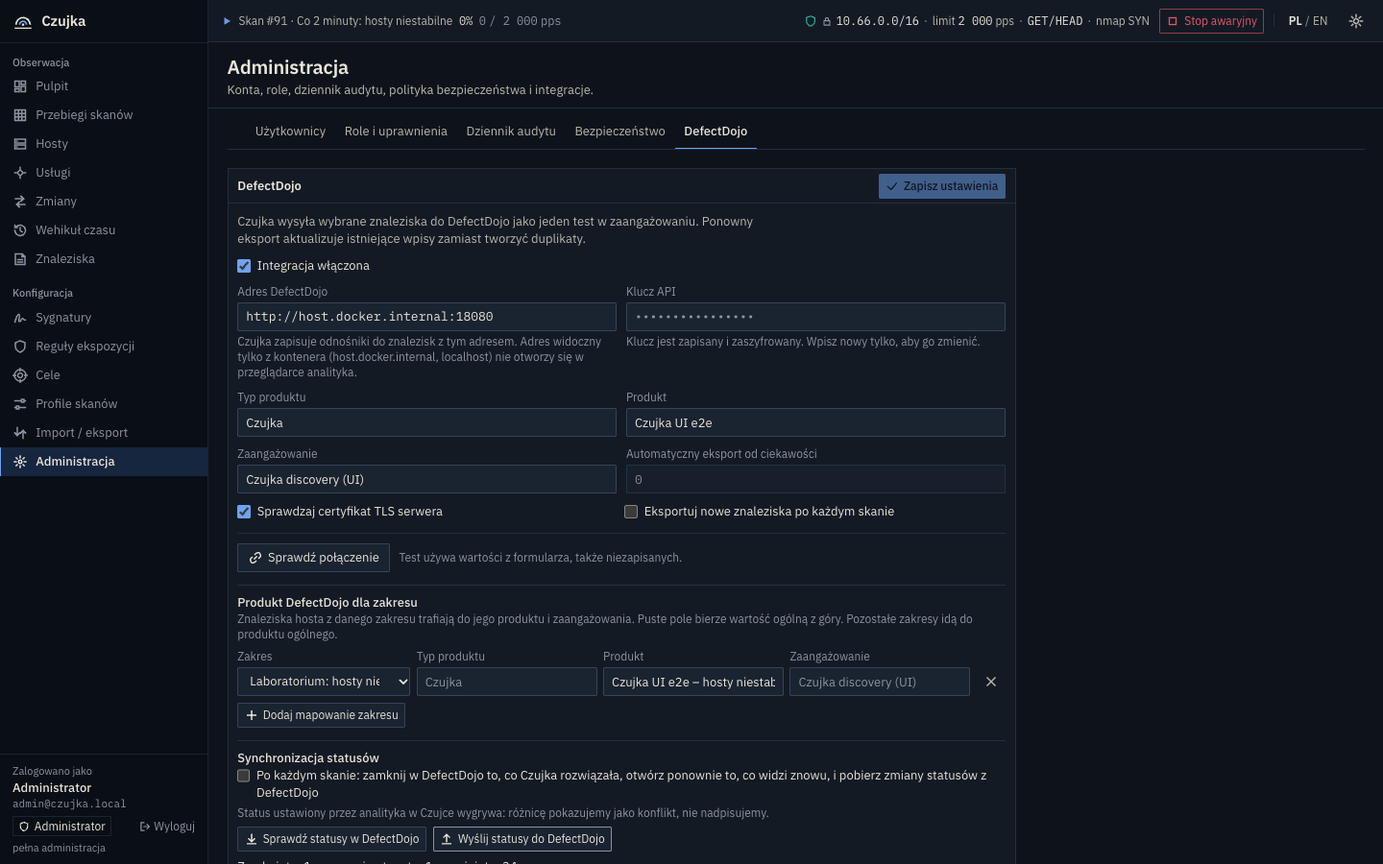
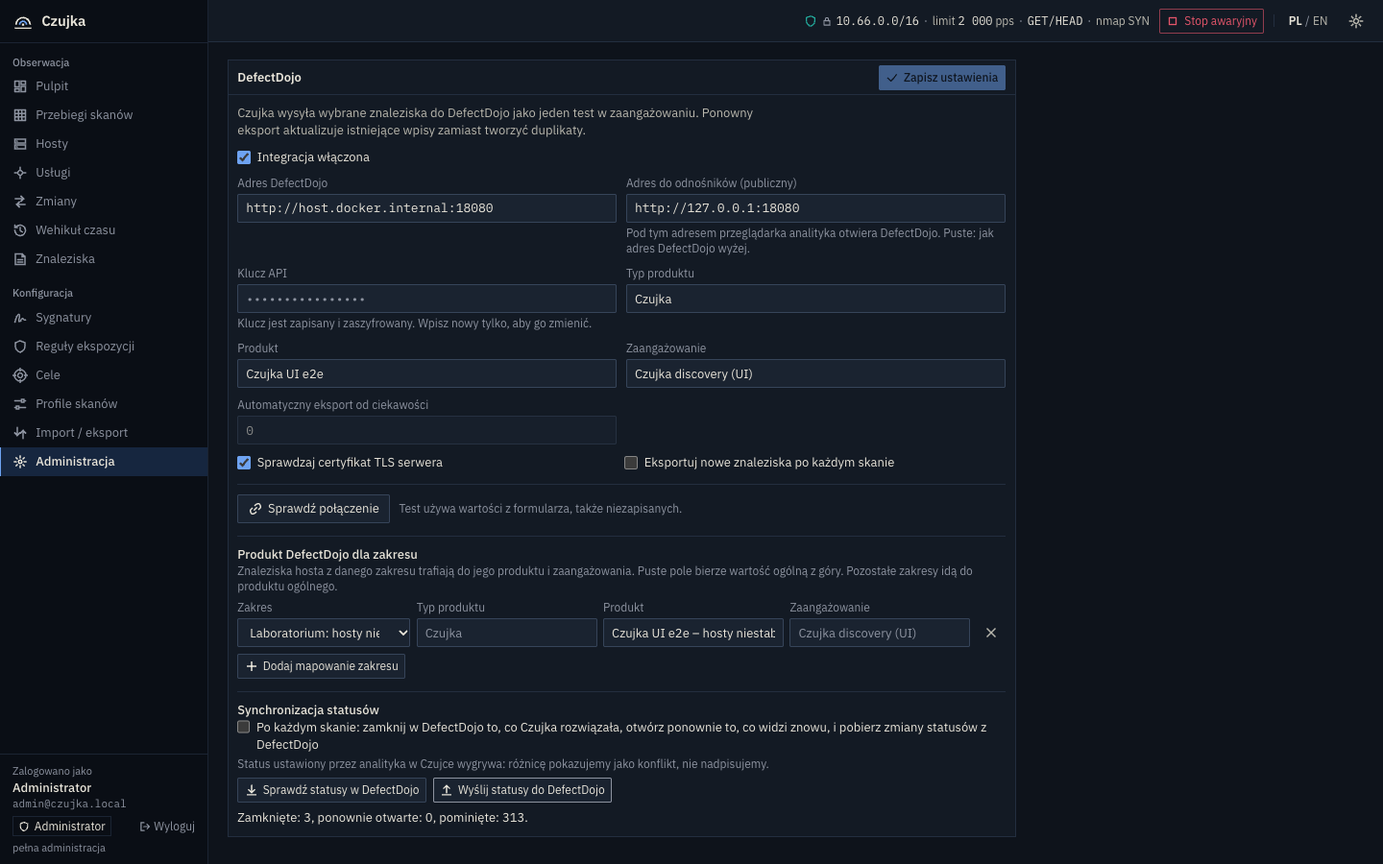
feat(web): show the DefectDojo import mode, linked orphans and the unconfirmed export; translate the Polish lock refusals; real preview line numbers

diff --git a/web/src/pages/Admin.tsx b/web/src/pages/Admin.tsx
@@ -307,7 +307,7 @@ function DojoTab() {
         <p className="mb-3 max-w-[72ch] text-sm text-ink-2">{t('Czujka wysyła wybrane znaleziska do DefectDojo jako jeden test w zaangażowaniu. Ponowny eksport aktualizuje istniejące wpisy zamiast tworzyć duplikaty.', 'Czujka sends chosen findings to DefectDojo as one test in an engagement. A repeated export updates existing entries instead of making duplicates.')}</p>
         <Check checked={f.enabled} onChange={(v) => setF({ ...f, enabled: v })} label={t('Integracja włączona', 'Integration enabled')} />
         <div className="mt-3 grid gap-3 sm:grid-cols-2">
-          <Field label={t('Adres DefectDojo', 'DefectDojo URL')} hint={/\/\/(host\.docker\.internal|localhost|127\.)/.test(f.url) ? t('Czujka zapisuje odnośniki do znalezisk z tym adresem. Adres widoczny tylko z kontenera (host.docker.internal, localhost) nie otworzy się w przeglądarce analityka.', 'Czujka writes finding links with this address. An address visible only from the container (host.docker.internal, localhost) does not open in the analyst browser.') : undefined}><input className="field mono" value={f.url} onChange={(e) => { setF({ ...f, url: e.target.value }); setTest(null); }} placeholder="https://defectdojo.example" /></Field>
+          <Field label={t('Adres DefectDojo', 'DefectDojo URL')} hint={/\/\/(host\.docker\.internal|localhost|127\.)/.test(f.url) && !f.link_url ? t('Bez adresu do odnośników Czujka zapisuje linki z tym adresem. Adres widoczny tylko z kontenera (host.docker.internal, localhost) nie otworzy się w przeglądarce analityka.', 'Czujka writes finding links with this address. An address visible only from the container (host.docker.internal, localhost) does not open in the analyst browser.') : undefined}><input className="field mono" value={f.url} onChange={(e) => { setF({ ...f, url: e.target.value }); setTest(null); }} placeholder="https://defectdojo.example" /></Field>
           {'link_url' in q.data ? (
             <Field label={t('Adres do odnośników (publiczny)', 'Link address (public)')} hint={t('Pod tym adresem przeglądarka analityka otwiera DefectDojo. Puste: jak adres DefectDojo wyżej.', 'The analyst browser opens DefectDojo at this address. Empty: the DefectDojo URL above.')}>
               <input className="field mono" value={f.link_url ?? ''} onChange={(e) => setF({ ...f, link_url: e.target.value })} placeholder="http://127.0.0.1:18080" data-testid="dojo-link-url" />
@@ -361,14 +361,15 @@ function DojoTab() {
           <p className="mt-1 text-xs text-ink-3">{t('Status ustawiony przez analityka w Czujce wygrywa: różnicę pokazujemy jako konflikt, nie nadpisujemy.', 'A status that an analyst set in Czujka wins: a difference shows as a conflict and is not overwritten.')}</p>
           <div className="mt-2 flex flex-wrap gap-2">
             <Button size="sm" icon="download" busy={pullRun.isPending && !pullRun.variables} disabled={!q.data.api_key_set} onClick={() => pullRun.mutate(false)} data-testid="dojo-pull">{t('Sprawdź statusy w DefectDojo', 'Check the statuses in DefectDojo')}</Button>
-            {pull && (pull.updates ?? []).length && !pull.applied ? <Button size="sm" variant="primary" icon="check" busy={pullRun.isPending && pullRun.variables === true} onClick={() => pullRun.mutate(true)}>{t('Zastosuj ' + (pull.updates ?? []).length + ' zmian', 'Apply ' + (pull.updates ?? []).length + ' changes')}</Button> : null}
+            {pull && (pull.updates ?? []).length && !pull.applied ? <Button size="sm" variant="primary" icon="check" busy={pullRun.isPending && pullRun.variables === true} onClick={() => pullRun.mutate(true)}>{t('Zastosuj ' + (pull.updates ?? []).length + ' ' + plural((pull.updates ?? []).length, ['zmianę', 'zmiany', 'zmian'], ['change', 'changes']), 'Apply ' + (pull.updates ?? []).length + ' ' + plural((pull.updates ?? []).length, ['zmianę', 'zmiany', 'zmian'], ['change', 'changes']))}</Button> : null}
             <Button size="sm" icon="upload" busy={syncRun.isPending} disabled={!q.data.api_key_set} onClick={() => syncRun.mutate(undefined)}>{t('Wyślij statusy do DefectDojo', 'Push the statuses to DefectDojo')}</Button>
           </div>
           {!q.data.api_key_set ? <p className="mt-1 text-xs text-ink-3">{t('Najpierw zapisz adres i klucz API.', 'Save the URL and the API key first.')}</p> : null}
           <InlineError error={pullRun.error ?? syncRun.error} />
           {pull ? (
             <div className="mt-2 border border-rule p-2 text-sm" data-testid="dojo-pull-result">
-              <p>{t('Sprawdzono ' + fmtInt(pull.checked) + ' znalezisk: ' + (pull.updates ?? []).length + ' zmian do przyjęcia, ' + count(pull.conflicts) + ' konfliktów, ' + count(pull.missing) + ' brakujących w DefectDojo.', 'Checked ' + fmtInt(pull.checked) + ' findings: ' + (pull.updates ?? []).length + ' changes to take, ' + count(pull.conflicts) + ' conflicts, ' + count(pull.missing) + ' missing in DefectDojo.')}{pull.applied ? ' ' + t('Zastosowano: ' + pull.applied + '.', 'Applied: ' + pull.applied + '.') : ''}</p>
+              <p>{t('Sprawdzono ' + fmtInt(pull.checked) + ' znalezisk: ' + (pull.updates ?? []).length + ' ' + plural((pull.updates ?? []).length, ['zmiana', 'zmiany', 'zmian'], ['change', 'changes']) + ' do przyjęcia, ' + count(pull.conflicts) + ' ' + plural(count(pull.conflicts), ['konflikt', 'konflikty', 'konfliktów'], ['conflict', 'conflicts']) + ', ' + count(pull.missing) + ' brakujących w DefectDojo.', 'Checked ' + fmtInt(pull.checked) + ' findings: ' + (pull.updates ?? []).length + ' changes to take, ' + count(pull.conflicts) + ' conflicts, ' + count(pull.missing) + ' missing in DefectDojo.')}{pull.applied ? ' ' + t('Zastosowano: ' + pull.applied + '.', 'Applied: ' + pull.applied + '.') : ''}</p>
+              {pull.linked ? <p className="mt-1 flex items-center gap-1.5 text-xs text-ink" data-testid="dojo-pull-linked"><Icon name="link" size={12} className="text-ink-2" />{t('Połączono ' + pull.linked + ' ' + plural(pull.linked, ['znalezisko', 'znaleziska', 'znalezisk'], ['', '']) + ' wysłane w niepotwierdzonym eksporcie (po kluczu, bez duplikatów).', 'Linked ' + pull.linked + ' findings sent by an unconfirmed export (by key, without duplicates).')}</p> : null}
               {(pull.updates ?? []).length ? (
                 <ul className="mt-2 max-h-[220px] overflow-auto border-t border-rule">
                   {(pull.updates ?? []).map((x) => (

diff --git a/web/src/pages/Findings.tsx b/web/src/pages/Findings.tsx
@@ -3,7 +3,7 @@ import { Link } from 'react-router';
 import { NextSteps } from '../ui/NextSteps';
 import { useQueryClient } from '@tanstack/react-query';
 import { invalidate, useAction, useItem, usePage } from '../api/hooks';
-import { del, patch, post } from '../api/client';
+import { ApiError, del, patch, post } from '../api/client';
 import type { DojoExportResult, Finding, FindingStatus, Severity } from '../api/types';
 import { t, plural } from '../i18n';
 import { fmtDateTime, fmtRelative } from '../lib/format';
@@ -213,7 +213,7 @@ export default function Findings() {
           ? t('Do DefectDojo trafi ' + (q.data?.total ?? 0) + ' ' + plural(q.data?.total ?? 0, ['znalezisko', 'znaleziska', 'znalezisk'], ['', '']) + ' pasujących do bieżących filtrów. Te, które już tam są, zostaną zaktualizowane, nie zdublowane.', (q.data?.total ?? 0) + ' findings that match the current filters go to DefectDojo. Those already there are updated, not duplicated.')
           : t('Do DefectDojo trafią wszystkie znaleziska (' + (q.data?.total ?? 0) + '). Te, które już tam są, zostaną zaktualizowane, nie zdublowane.', 'All findings (' + (q.data?.total ?? 0) + ') go to DefectDojo. Those already there are updated, not duplicated.')}</p>
         <div className="mt-3"><InlineError error={exportAll.error} /></div>
-        {exportAll.error ? <p className="mt-2 text-xs text-ink-2" data-testid="dojo-export-retry-hint">{t('Część znalezisk mogła już trafić do DefectDojo. Ponów eksport, gdy DefectDojo odpowiada: Czujka rozpozna je po kluczu i zaktualizuje, bez duplikatów.', 'Some findings may already be in DefectDojo. Repeat the export when DefectDojo answers: Czujka recognises them by key and updates them, without duplicates.')}</p> : null}
+        {exportAll.error && !(exportAll.error instanceof ApiError && exportAll.error.code === 'dojo_unconfirmed') ? <p className="mt-2 text-xs text-ink-2" data-testid="dojo-export-retry-hint">{t('Część znalezisk mogła już trafić do DefectDojo. Ponów eksport, gdy DefectDojo odpowiada: Czujka rozpozna je po kluczu i zaktualizuje, bez duplikatów.', 'Some findings may already be in DefectDojo. Repeat the export when DefectDojo answers: Czujka recognises them by key and updates them, without duplicates.')}</p> : null}
       </Dialog>
       <Dialog open={result !== null} onClose={() => setResult(null)} title={t('Eksport do DefectDojo', 'Export to DefectDojo')} width={480} footer={<Button variant="primary" onClick={() => setResult(null)}>{t('Gotowe', 'Done')}</Button>}>
         {result ? (

diff --git a/web/src/pages/RunDetail.tsx b/web/src/pages/RunDetail.tsx
@@ -311,7 +311,7 @@ export function phaseText(s: ScanRun['stats'], chunks: number, addrs: number): s
   return t('Wykrywanie hostów w ', 'Discovering hosts in ') + where + t('. Postęp rośnie po zakończeniu każdej podgrupy.', '. Progress grows as each chunk finishes.');
 }
 
-interface DojoRunResult { test_id: number; test_url: string; reimport: boolean; created: number; closed: number; reactivated: number; untouched: number; total: number }
+interface DojoRunResult { test_id: number; test_url: string; reimport: boolean; mode?: 'import' | 'reimport'; title?: string; created: number; closed: number; reactivated: number; untouched: number; total: number }
 
 /** Uploads the nmap XML of a completed run to DefectDojo as an "Nmap Scan" import (a second upload re-imports into the same test). */
 export function DojoRunButton({ runId }: { runId: number }) {
@@ -324,7 +324,8 @@ export function DojoRunButton({ runId }: { runId: number }) {
         footer={<Button variant="primary" onClick={() => { setRes(null); send.reset(); }}>{t('Gotowe', 'Done')}</Button>}>
         {res ? (
           <div className="space-y-3 text-sm" data-testid="run-dojo-result">
-            <p className="flex items-center gap-2"><Glyph name="check" tone="new" />{res.reimport ? t('Ponowny import do tego samego testu.', 'Re-imported into the same test.') : t('Nowy test w DefectDojo.', 'A new test in DefectDojo.')}</p>
+            <p className="flex items-center gap-2"><Glyph name="check" tone="new" />{(res.mode ?? (res.reimport ? 'reimport' : 'import')) === 'reimport' ? t('Ponowny import (reimport) do testu profilu: DefectDojo zamyka to, czego nowy przebieg już nie widzi.', 'Re-import into the profile test: DefectDojo closes what the new run no longer sees.') : t('Pierwszy import: nowy test w DefectDojo.', 'First import: a new test in DefectDojo.')}</p>
+            <p className="text-xs text-ink-2" data-testid="run-dojo-mode">{t('Tryb', 'Mode')} <span className="mono text-ink">{res.mode ?? (res.reimport ? 'reimport' : 'import')}</span>{res.title ? <> · {t('test', 'test')} <span className="text-ink">{res.title}</span></> : null}</p>
             <dl className="grid grid-cols-[minmax(0,1fr)_auto] gap-x-4 gap-y-1">
               <dt className="text-ink-2">{t('Nowe obserwacje', 'New findings')}</dt><dd className="num">{res.created}</dd>
               <dt className="text-ink-2">{t('Zamknięte (zniknęły)', 'Closed (gone)')}</dt><dd className="num">{res.closed}</dd>

diff --git a/web/src/lib/lock.ts b/web/src/lib/lock.ts
@@ -10,13 +10,15 @@ export function isLockRefusal(text: string | undefined | null): boolean {
  * Returns null for any other message.
  */
 export function lockMessage(msg: string, lang: 'pl' | 'en'): string | null {
-  const net = msg.match(/allowed_networks: (\S+) lies outside the operator lock \(CZUJKA_ALLOWED_NETWORKS: ([^)]+)\)/);
+  const net = msg.match(/allowed_networks: (\S+) lies outside the operator lock \(CZUJKA_ALLOWED_NETWORKS: ([^)]+)\)/)
+    ?? msg.match(/allowed_networks: sieć (\S+) leży poza blokadą operatora \(CZUJKA_ALLOWED_NETWORKS: ([^)]+)\)/);
   if (net) {
     return lang === 'pl'
       ? 'Sieć ' + net[1] + ' leży poza blokadą operatora wdrożenia (' + net[2] + '). Tę granicę zmienia tylko operator (zmienna CZUJKA_ALLOWED_NETWORKS); żaden użytkownik, także administrator, nie może jej poszerzyć.'
       : 'The network ' + net[1] + ' lies outside the deployment operator lock (' + net[2] + '). Only the operator changes it (the CZUJKA_ALLOWED_NETWORKS variable); no user, an administrator included, can widen it.';
   }
-  const all = msg.match(/every target lies outside the allowed networks.*?operator lock \(CZUJKA_ALLOWED_NETWORKS: ([^)]+)\);?\s*(.*)$/);
+  const all = msg.match(/every target lies outside the allowed networks.*?operator lock \(CZUJKA_ALLOWED_NETWORKS: ([^)]+)\);?\s*(.*)$/)
+    ?? msg.match(/każdy cel leży poza dozwolonymi sieciami.*?blokadą operatora \(CZUJKA_ALLOWED_NETWORKS: ([^)]+)\);?\s*(.*)$/);
   if (all) {
     const lead = lang === 'pl'
       ? 'Żaden adres nie leży w dozwolonych sieciach i w blokadzie operatora wdrożenia (' + all[1] + ').'

diff --git a/web/src/lib/lock.test.ts b/web/src/lib/lock.test.ts
@@ -15,6 +15,15 @@ describe('operator lock helpers', () => {
     const m = 'invalid: every target lies outside the allowed networks of the safety policy or the operator lock (CZUJKA_ALLOWED_NETWORKS: 10.66.0.0/16); 192.168.1.10: poza sieciami';
     expect(lockMessage(m, 'pl')).toBe('Żaden adres nie leży w dozwolonych sieciach i w blokadzie operatora wdrożenia (10.66.0.0/16). 192.168.1.10: poza sieciami');
   });
+  it('translates the Polish server texts in both languages', () => {
+    const n = 'validation: allowed_networks: sieć 10.0.0.0/8 leży poza blokadą operatora (CZUJKA_ALLOWED_NETWORKS: 10.66.0.0/16); poszerzyć ją może tylko operator wdrożenia';
+    expect(lockMessage(n, 'pl')).toMatch(/^Sieć 10\.0\.0\.0\/8 leży poza blokadą operatora wdrożenia \(10\.66\.0\.0\/16\)/);
+    expect(lockMessage(n, 'en')).toMatch(/^The network 10\.0\.0\.0\/8 lies outside the deployment operator lock \(10\.66\.0\.0\/16\)/);
+    const a = 'invalid: każdy cel leży poza dozwolonymi sieciami polityki bezpieczeństwa albo blokadą operatora (CZUJKA_ALLOWED_NETWORKS: 10.66.0.0/16); 192.168.1.10: poza sieciami';
+    expect(lockMessage(a, 'en')).toBe('No address lies inside the allowed networks and the deployment operator lock (10.66.0.0/16). 192.168.1.10: poza sieciami');
+    expect(lockMessage(a, 'pl')).toMatch(/^Żaden adres nie leży/);
+    expect(isLockRefusal(n)).toBe(true);
+  });
   it('ignores other messages', () => {
     expect(lockMessage('max_pps must be between 1 and 100000', 'pl')).toBeNull();
     expect(isLockRefusal('poza dozwolonymi sieciami polityki bezpieczeństwa')).toBe(false);

diff --git a/web/src/ui/kit.tsx b/web/src/ui/kit.tsx
@@ -202,6 +202,7 @@ export function explainError(error: unknown): Explained {
   if (e.status === 404) return { ...base, title: t('Nie znaleziono', 'Not found'), detail: t('Ten obiekt nie istnieje albo został usunięty.', 'This object does not exist or was deleted.') };
   if (e.code === 'emergency_stop') return { ...base, icon: 'stop', title: t('Stop awaryjny jest aktywny', 'The emergency stop is active'), detail: t('Żaden skan nie wystartuje, dopóki blokada nie zostanie zwolniona.', 'No scan starts until the stop is released.') };
   if (e.status === 409) return { ...base, title: t('Operacja jest sprzeczna z bieżącym stanem', 'The operation conflicts with the current state'), detail: msg };
+  if (e.code === 'dojo_unconfirmed') return { ...base, icon: 'alert', retryable: true, title: t('Wysłano, nie potwierdzono', 'Sent, not confirmed'), detail: getLang() === 'pl' ? msg.replace(/^Wysłano, nie potwierdzono:\s*(\S)/, (_m, c: string) => c.toUpperCase()) : 'Repeat the export. DefectDojo accepted the data but stopped answering before it confirmed it. Repeating the export, or pulling the statuses, links these findings by key, without duplicates.' };
   const locked = e.status === 422 ? lockMessage(msg, getLang()) : null;
   if (locked) return { ...base, icon: 'lock', title: t('Zablokowane przez operatora wdrożenia', 'Blocked by the deployment operator'), detail: locked };
   if (e.status === 422 || e.code === 'validation') return { ...base, title: t('Dane nie przeszły walidacji', 'The data did not pass validation'), detail: msg };

diff --git a/web/src/api/types.ts b/web/src/api/types.ts
@@ -265,7 +265,7 @@ export interface DefectDojoSettings {
 export interface DojoScopeMapping { scope_id: number; product_type_name: string; product_name: string; engagement_name: string }
 export interface DojoPullUpdate { finding_id: number; key: string; dojo_id: number; from: string; to: string; dojo_changed_at: string | null; reason: string }
 export interface DojoPullConflict { finding_id: number; key: string; dojo_id: number; local: string; remote: string; reason: string }
-export interface DojoPullResult { checked: number; updates: DojoPullUpdate[] | null; conflicts: DojoPullConflict[] | number | null; missing: unknown; errors: unknown; applied: number }
+export interface DojoPullResult { checked: number; updates: DojoPullUpdate[] | null; conflicts: DojoPullConflict[] | number | null; missing: unknown; errors: unknown; applied: number; linked?: number }
 export interface DojoSyncResult { closed: number; reopened: number; skipped: number; errors: unknown }
 export interface FindingsImportReport { format: string; findings: number; skipped: number; invalid: InvalidLine[] | null; created: number; updated: number; hosts_created: number; run_id: number | null }
 export interface ManualEntryResult { run: ScanRun; host: Host }

diff --git a/web/src/pages/Targets.tsx b/web/src/pages/Targets.tsx
@@ -59,7 +59,7 @@ export function PreviewReport({ p, pending }: { p: TargetPreview; pending?: bool
             const lock = isLockRefusal(l.reason);
             return (
               <li key={i} className="grid grid-cols-[64px_minmax(0,1fr)] gap-x-2 border-b border-rule py-1 text-xs sm:grid-cols-[64px_minmax(0,150px)_minmax(0,1fr)]" data-lock={lock || undefined}>
-                <span className="num text-ink-3">{lock ? <span className="inline-flex items-center gap-1 text-ink-2"><Icon name="lock" size={12} />{t('blokada', 'lock')}</span> : l.line > 0 ? t('wiersz', 'line') + ' ' + l.line : '–'}</span><span className="mono truncate text-ink">{l.value}</span><span className="col-span-2 text-danger sm:col-span-1">{l.reason}</span>
+                <span className="num inline-flex items-center gap-1 text-ink-3">{lock ? <Icon name="lock" size={12} className="text-ink-2" /> : null}{t('wiersz', 'line')} {l.line}</span><span className="mono truncate text-ink">{l.value}</span><span className="col-span-2 text-danger sm:col-span-1">{l.reason}</span>
               </li>
             );
           })}

diff --git a/web/REPORT-LAB.md b/web/REPORT-LAB.md
@@ -121,25 +121,27 @@ Czujka (czui stack, lab data) talks to DefectDojo at `http://host.docker.interna
 | # | Step | Result | Evidence |
 | --- | --- | --- | --- |
 | 1 | Settings: URL, API key, test with version, product type / product / engagement, scope mapping, `status_sync` | PASS: "Połączono z DefectDojo 3.5.202 jako admin", settings saved and read back | `dojo-1-settings` |
-| 2 | Export selected findings and a filtered set; links; fields in DefectDojo | PASS: 3 selected findings of a host in the mapped scope went to the mapped product (test #25), 2 selected + the filter "waga: wysoka" (33) to the default product (test #26). In DefectDojo: title, severity, description with evidence, endpoint `http://10.66.70.14:49152`, `unique_id_from_tool` = the Czujka key. The links Czujka writes back do not open in the browser (backend 1) | `dojo-2a`…`dojo-2e`, `dojo-pair-*` |
+| 2 | Export selected findings and a filtered set; links; fields in DefectDojo | PASS: 3 selected findings of a host in the mapped scope went to the mapped product (test #25), 2 selected + the filter "waga: wysoka" (33) to the default product (test #26). In DefectDojo: title, severity, description with evidence, endpoint `http://10.66.70.14:49152`, `unique_id_from_tool` = the Czujka key. Links: see step 9 | `dojo-2a`…`dojo-2e`, `dojo-pair-*` |
 | 3 | Export again | PASS: "Nowe w DefectDojo 0, Zaktualizowane 33"; no duplicate `unique_id_from_tool` in the test | `dojo-3-export-again` |
 | 4 | DefectDojo: false positive, risk accepted, mitigated; Czujka: dry run, conflict, apply | PASS: dry run proposed #719 → fałszywy alarm, #718 → zaakceptowane, #717 → rozwiązane; #716 (status "w analizie" set by an analyst in Czujka, mitigated in DefectDojo) listed as a conflict and kept; "Zastosowano: 3" | `dojo-4a-pull-dry-run`, `dojo-4b-pull-applied` |
-| 5 | Resolve in Czujka and sync; reappear and sync | PASS: sync "Zamknięte: 1" (DefectDojo: Inactive, Mitigated); the next run saw the exposure again and reopened the finding in Czujka; sync "ponownie otwarte: 2" (DefectDojo: Active). With `status_sync` on, the sync also ran by itself after a run (audit `finding.sync.defectdojo`, actor `system`) | `dojo-5a`…`dojo-5d` |
-| 6 | Run as "Nmap Scan", then the next run into the same test | PARTIAL: run #90 → test #27, run #91 → a new test #28; the same run #91 again → re-import into #28 ("Bez zmian 3"). The next run does not go into the same test (backend 2). New UI button "Do DefectDojo" on a completed run | `dojo-6a`…`dojo-6c` |
+| 5 | One reopen rule: resolve in Czujka and sync; reappear and sync; accepted and false positive stay | PASS (rule), FAIL (frequent profile still flips, backend 4): #1658 set to "rozwiązane" in the UI, sync "Zamknięte: 3" (DefectDojo #705: Inactive, Mitigated); run #144 saw it again → one `finding.reopen` (by `system`, resolved 16:09:26, seen 16:10:05), run #145 → no second reopen; sync "ponownie otwarte: 1" (DefectDojo #705: Active). #1598 "zaakceptowane" and #1599 "fałszywy alarm" kept their status through runs #141, #143, #144, #145 although both were observed in each | `dojo-5a`…`dojo-5d` |
+| 6 | Run as "Nmap Scan", then the next runs of the profile into the same test | PASS: run #129 → "Pierwszy import", mode `import`, test #30 "Czujka nmap: profil 4" (5 new); run #130 → mode `reimport` into #30 (4 closed, 1 unchanged: the unstable hosts were gone); run #132 → mode `reimport` into #30 (4 reactivated, 1 unchanged). The run dialog shows the mode and the test title | `dojo-6a-nmap-run-129`, `dojo-6b-nmap-run-130`, `dojo-6c-nmap-run-132` |
 | 7 | Generic Findings file route both ways | PASS: `czujka-findings.dojo.json` from Import / eksport, uploaded by hand in the DefectDojo UI as "Generic Findings Import": "processed a total of 301 findings" with the same severity split (33 / 18 / 33 / 217). A DefectDojo API findings list (test #28) imported into Czujka: format `dojo-api-json`, 3 created | `dojo-7b`, `dojo-7c`, `dojo-7d` |
 | 8 | Errors: wrong key, unreachable URL, DefectDojo down during an export | PASS: wrong key → "DefectDojo odrzucił token API… HTTP 403"; unreachable → "brak połączenia z DefectDojo… connection refused"; nginx of DefectDojo stopped 2 s into an export of 265 findings → the dialog shows "Usługa zewnętrzna nie odpowiada…" and a retry hint; after the restart the same export gave 40 new + 225 updated and 0 duplicates (backend 3) | `dojo-8a`…`dojo-8d` |
+| 9 | `link_url` (public base of every DefectDojo link) | PASS: "Adres do odnośników (publiczny)" = `http://127.0.0.1:18080` saved and read back; after the next export finding #70 links to `http://127.0.0.1:18080/finding/618` and the link opens the finding in DefectDojo (before: `host.docker.internal`, ERR_NAME_NOT_RESOLVED). Stored links change only when a finding is exported again. The URL hint under "Adres DefectDojo" now shows only while `link_url` is empty | `dojo-9a-link-url-setting`, `dojo-9b-czujka-link`, `dojo-9c-link-opens-defectdojo` |
+| 10 | Outage after the import: 502 `dojo_unconfirmed`, then linking | PASS: a local proxy in front of DefectDojo dropped every request for 40 s right after `/reimport-scan/` answered 201. Export of 2 new manual findings → the dialog shows "Wysłano, nie potwierdzono. Powtórz eksport…" (no raw Go error, no second retry hint). Path A: `POST /defectdojo/pull` from the UI → "Połączono 2 znaleziska wysłane w niepotwierdzonym eksporcie" (`linked: 2`, #2191 → DefectDojo #711, #2192 → #710). Path B: two more findings, same outage, then the same export again → "Nowe 0, Zaktualizowane 2" (#2311 → #712, #2312 → #713). No duplicates in test #26 | `dojo-10a-unconfirmed-502`, `dojo-10b-pull-linked`, `dojo-10c-export-again-links` |
 
 UI changes for this flow: export of the filtered set (button "Pasujące do DefectDojo" / "Wszystkie do DefectDojo" with a confirmation that says existing findings are updated), "Do DefectDojo" on a completed run (Nmap Scan import, result with the test link and re-import counts), the status pull lists every proposed change and every conflict (Czujka status vs DefectDojo state, reason), the apply button disappears after applying, one error after a failed export (no duplicate toast) plus a retry hint, and a hint under the URL when it is a container-only address.
 
-Backend problems (exact):
+Backend problems (exact). Round 1 items 1 (`link_url`), 2 (test per profile) and 3 (`dojo_unconfirmed`, linking) are fixed and verified above. Open:
 
-1. `dojo_url` is built from the integration URL. With `http://host.docker.internal:18080` (the only address the container can use for a DefectDojo bound to 127.0.0.1) every link in Czujka points to a host the analyst's browser cannot open. A separate link base (for example `link_url` in `DefectDojoSettings`) would fix it; the UI only warns.
-2. `POST /runs/{id}/export/defectdojo` keys the test by run: the next run of the same profile creates a new "Nmap Scan" test instead of a re-import into the previous one, so DefectDojo never closes ports that disappeared between runs.
-3. When DefectDojo goes down during `POST /findings/export/defectdojo`, `/import-scan` may already have created the findings (test #26 grew to 258) while Czujka stores no `dojo_id` (the follow-up `GET /findings/?test=…` failed with EOF). The findings stay unlinked until the export is repeated; the repeat matches them by `unique_id_from_tool`, so there are no duplicates. The error text is the raw Go error.
-4. A resolved policy-violation finding is reopened by the rule evaluation after the next run while the exposure is still there (every 2 minutes on profile 4). So a DefectDojo "mitigated" taken in by the pull is undone within one run and the next sync reopens it in DefectDojo (#717). Correct if "resolved" means "fixed", but it looks like ping-pong to an analyst.
-5. Severity: "Panel administracyjny: phpMyAdmin (10.66.10.10:80)" is `info` (interest 75) in Czujka and DefectDojo; for the accuracy owner.
+4. The reopen rule works (once per resolution), but findings on the frequent profile still alternate between "nowe" and "rozwiązane", now through the automatic resolution: `internal/wire/analysis.go` (after `UpsertFindings`) resolves every `new` finding of an answering host that the run no longer derives. On the unstable hosts of profile 4 a service is missing in one run and back in the next, so 11 findings on 10.66.70.x went resolved → new twice in 15 minutes (runs #132 and #139; for example #155 "Serwer plików (10.66.70.10:80)", #1594…#1600 on 10.66.70.11), and each change is a DefectDojo close/reopen with `status_sync` on. Suggestion: resolve automatically only after the service is gone by the stability model (N misses in a row, or not for services marked unstable).
+5. `accepted` does not reach DefectDojo: exporting #1598 (accepted) leaves DefectDojo #703 `active: true, risk_accepted: false` without an error (product without simple risk acceptance). In the product with simple risk acceptance enabled the export fails for #90: HTTP 400 "Active findings cannot be risk accepted." (the PATCH sets `risk_accepted` without `active: false`). `false_positive` works (#704: `false_p: true`, inactive).
+6. Severity: "Panel administracyjny: phpMyAdmin (10.66.10.10:80)" is `info` (interest 75) in Czujka and DefectDojo; for the accuracy owner.
 
-Left in DefectDojo (the README does not call them disposable): products `Czujka UI e2e` (tests #26 API findings, #27 and #28 Nmap Scan, #29 the manual Generic Findings import, which duplicates the API findings in the same product; simple risk acceptance enabled for step 4) and `Czujka UI e2e – hosty niestabilne` (test #25). In Czujka: 3 findings imported from DefectDojo test #28 ("Open Port: …/TCP").
+Left in DefectDojo (the README does not call them disposable): products `Czujka UI e2e` (tests #26 API findings, #27 and #28 Nmap Scan of round 1, #30 "Czujka nmap: profil 4", #29 the manual Generic Findings import, which duplicates the API findings in the same product; simple risk acceptance enabled for step 4) and `Czujka UI e2e – hosty niestabilne` (test #25). In Czujka: 3 findings imported from DefectDojo test #28 ("Open Port: …/TCP") and 4 manual findings "Ręczny wpis analityka 1…4" on 10.66.10.10 (step 10), exported to test #26.
+
+Also in this round: the two lock refusals are translated again in the EN view (`lockMessage()` matches the new Polish server texts as well as the old English ones; test added), and the target preview shows the real line number for entries that the policy or the lock drops (the "–" workaround is gone; the lock icon stays).
 
 ## 12. Live rate basis and estimated packets (engine rate fix, 74b332b)
 
